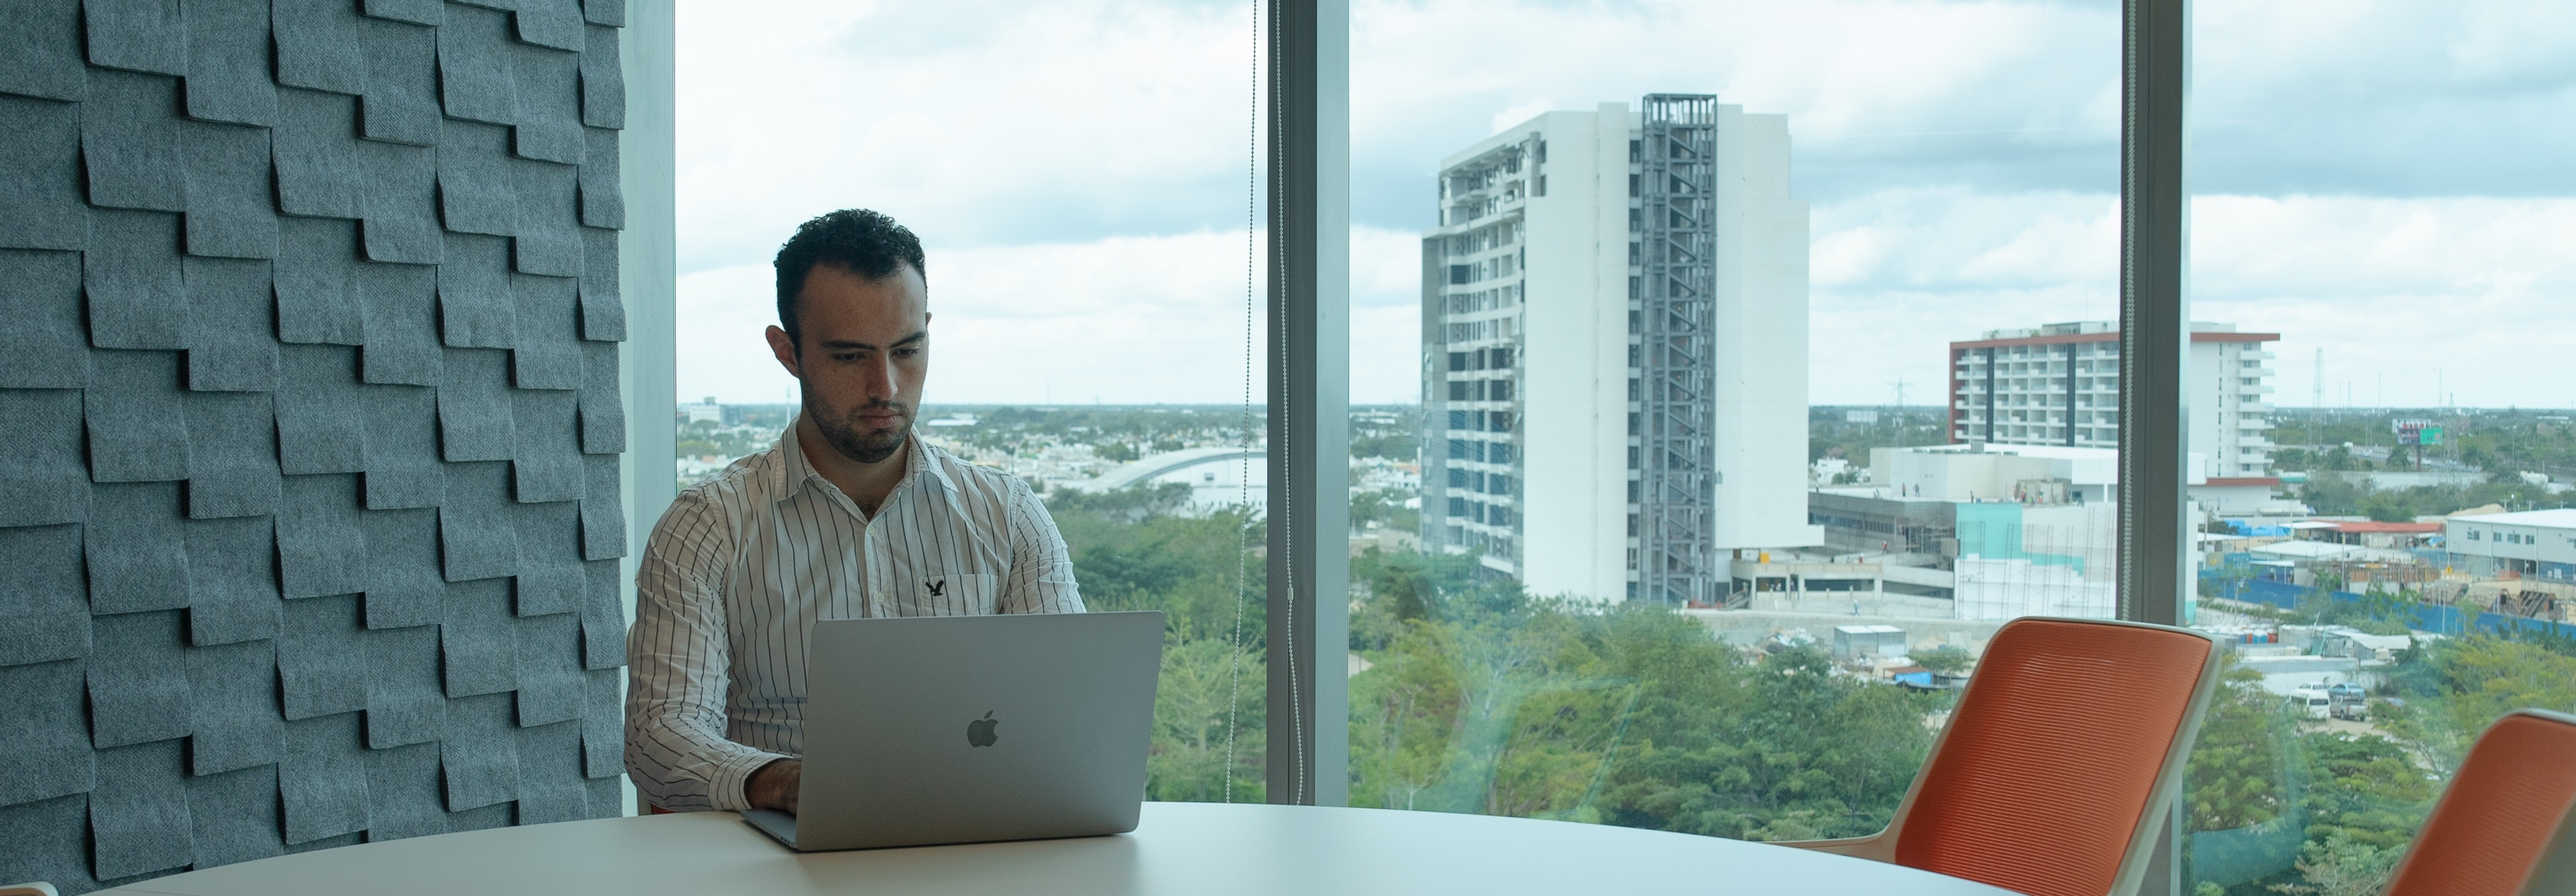
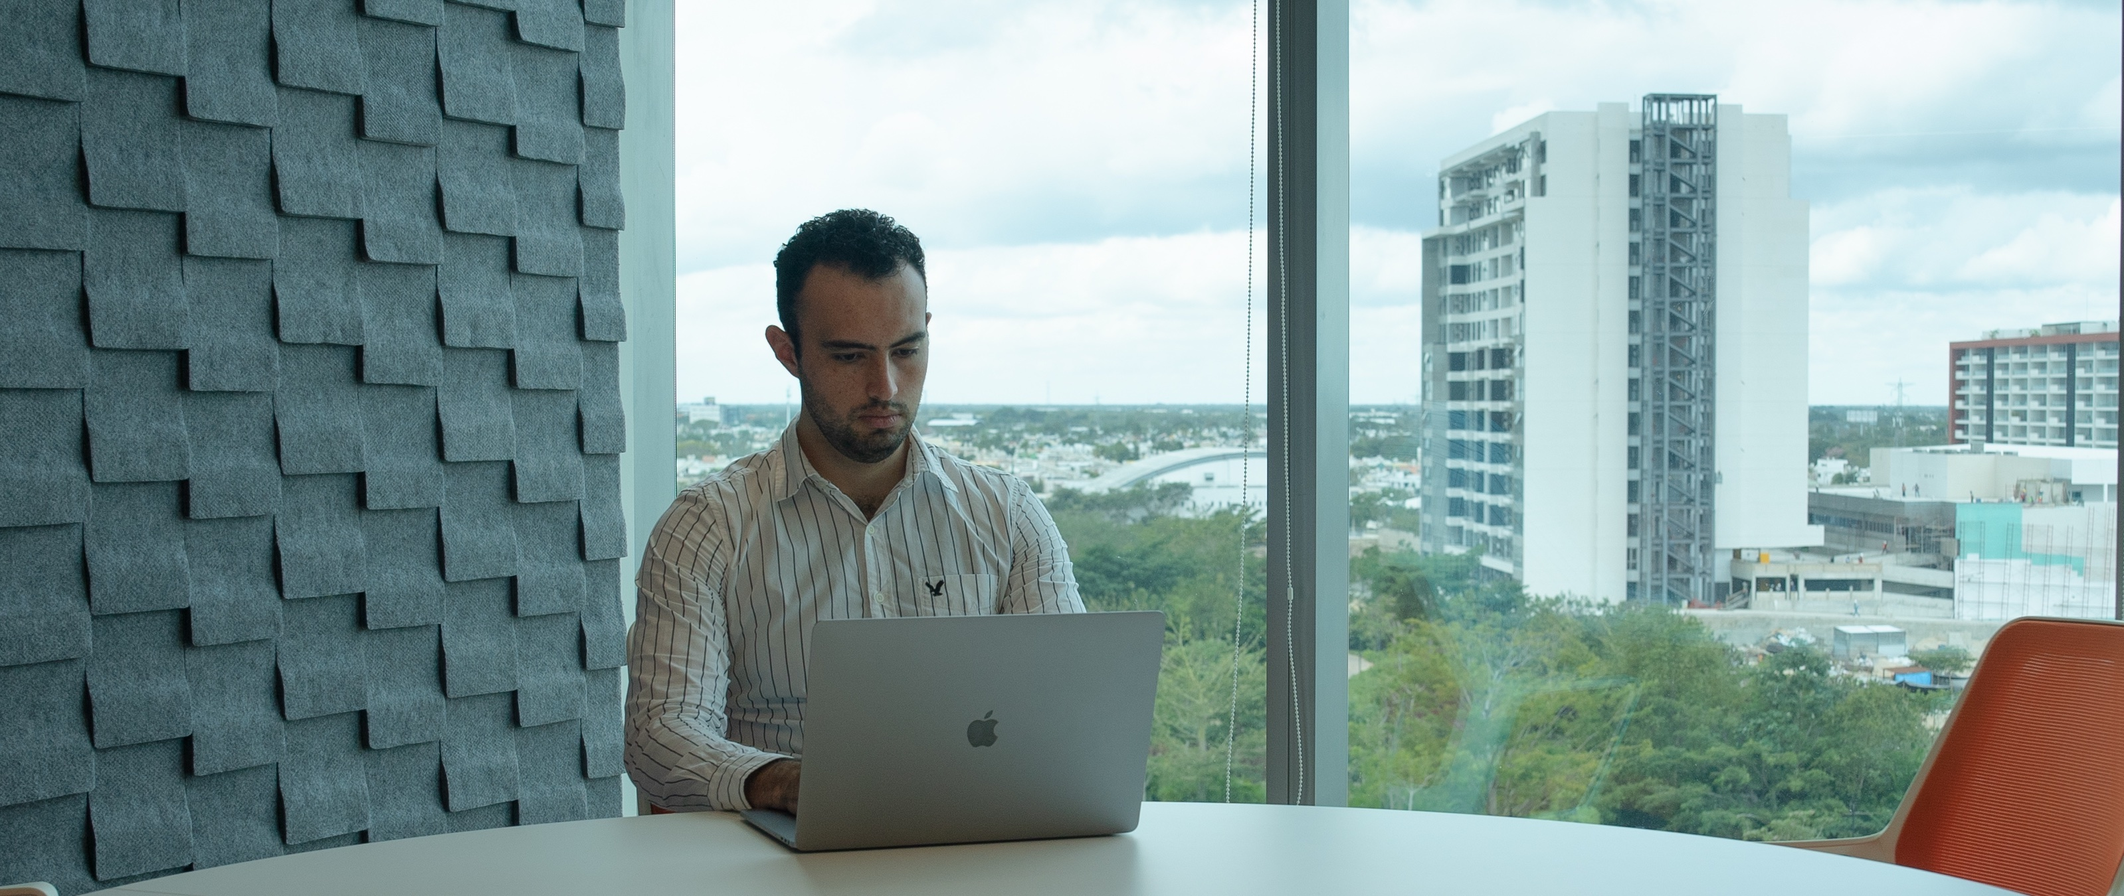
Updates to index page

diff --git a/src/styles/global.css b/src/styles/global.css
@@ -1,15 +1,40 @@
+body, html {
+   height: 100%;
+ }
+
 .bg{
    background-image: url("/luisleon3modified.jpeg");
    /* Full height */
-   height: 100%;
+   height: 90%;
  
    /* Center and scale the image nicely */
-   background-position: center;
+   background-position: right;
    background-repeat: no-repeat;
    background-size: cover;
+   margin: 0 auto;
 }
 
-.text-responsive {
+.title-text{
+   text-align: right;
+   min-height: 100%;  /* Fallback for browsers do NOT support vh unit */
+   min-height: 20vh; /* These two lines are counted as one :-)       */
+   display: right;
+   align-items: center;
+}
+
+.full-width{
+   width: 100%;
+}
+
+.full-height{
+   height: 100%;
+}
+
+.title-responsive {
+   font-size: calc(100% + 4vw + 4vh);
+ }
+
+.subtitle-responsive {
    font-size: calc(100% + 1vw + 1vh);
  }
 
@@ -17,12 +42,21 @@
    background: rgba(255, 255, 255, 0.8)
 }
 
+.full-center {
+   margin: 0;
+   position: absolute;
+   top: 50%;
+   left: 50%;
+   -ms-transform: translate(-50%, -50%);
+   transform: translate(-50%, -50%);
+}
+
 .vertical-center {
-   min-height: 100%;  /* Fallback for browsers do NOT support vh unit */
-   min-height: 100vh; /* These two lines are counted as one :-)       */
- 
-   display: flex;
-   align-items: center;
+   margin: 0;
+   position: absolute;
+   top: 50%;
+   -ms-transform: translateY(-50%);
+   transform: translateY(-50%);
  }
 
 .blog-header{

diff --git a/src/pages/booksandmovies/prueba.md b/src/pages/booksandmovies/prueba.md
@@ -1,4 +1,8 @@
 ---
 title: "Prueba Books and Movies"
+date: "2022-06-06"
+category: "test"
+description: "pruebaaa"
 ---
 <br>
+Hola

diff --git a/src/pages/dataandcode/prueba2.md b/src/pages/dataandcode/prueba2.md
@@ -1,0 +1,6 @@
+---
+title: "Prueba data and code 2"
+date: "2022-06-08"
+category: "test"
+description: "pruebaaa 2"
+---

diff --git a/src/pages/dataandcode/prueba3.md b/src/pages/dataandcode/prueba3.md
@@ -1,0 +1,6 @@
+---
+title: "Prueba data and code 3"
+date: "1998-06-06"
+category: "test"
+description: "pruebaaa3"
+---

diff --git a/src/pages/dataandcode/prueba.md b/src/pages/dataandcode/prueba.md
@@ -1,3 +1,6 @@
 ---
 title: "Prueba data and code"
+date: "2022-06-06"
+category: "test"
+description: "pruebaaa"
 ---

diff --git a/src/pages/miscellaneus/prueba.md b/src/pages/miscellaneus/prueba.md
@@ -1,3 +1,6 @@
 ---
 title: "prueba"
+date: "2022-06-06"
+category: "test"
+description: "pruebaaa"
 ---
